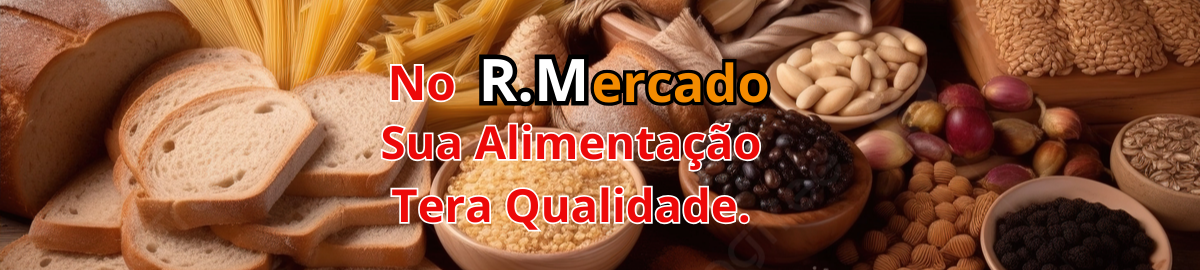
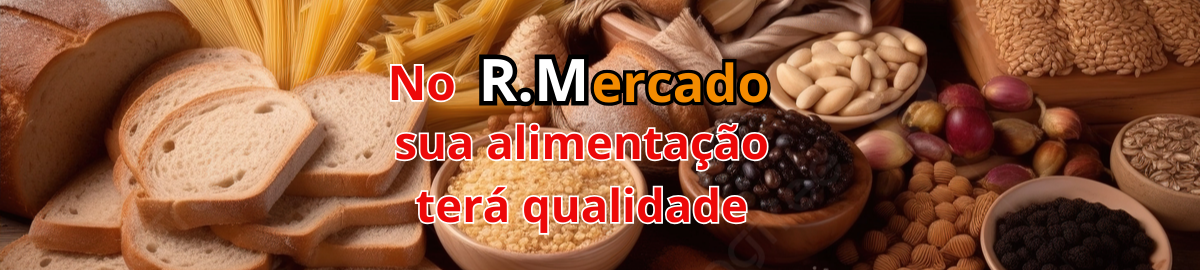
centralizando textos dos cards

Changed region(s): [[0.3083, 0.4444, 0.6475, 0.6519], [0.3083, 0.6815, 0.6475, 0.8889]]

diff --git a/src/componentes/Card/Card.module.css b/src/componentes/Card/Card.module.css
@@ -42,7 +42,7 @@
     font-weight: 700;
     display: flex;
     justify-content: center;
-    text-align: start;
+    text-align: center;
     margin-top: 5px;
     height: 32%;
     padding: 2px 3px 2px 9px;
@@ -53,7 +53,7 @@
     font-weight: 700;
     display: flex;
     justify-content: center;
-    text-align: start;
+    text-align: center;
     margin-top: 5px;
     height: 32%;
     padding: 2px 5px 2px 9px;
@@ -64,7 +64,7 @@
     font-weight: 700;
     display: flex;
     justify-content: center;
-    text-align: start;
+    text-align: center;
     margin-top: 5px;
     height: 32%;
     padding: 2px 3px 2px 7px;
